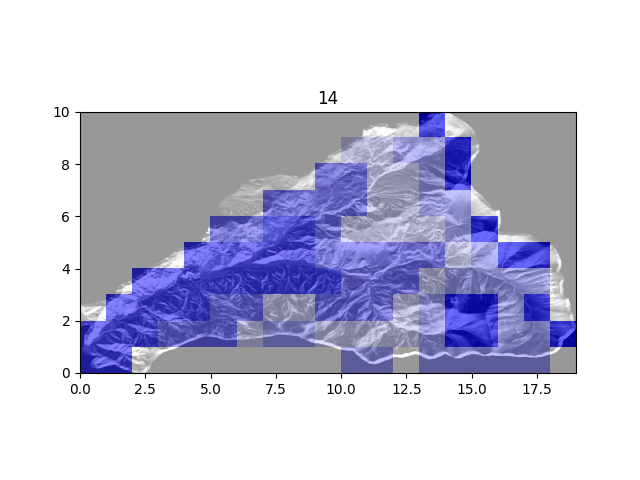
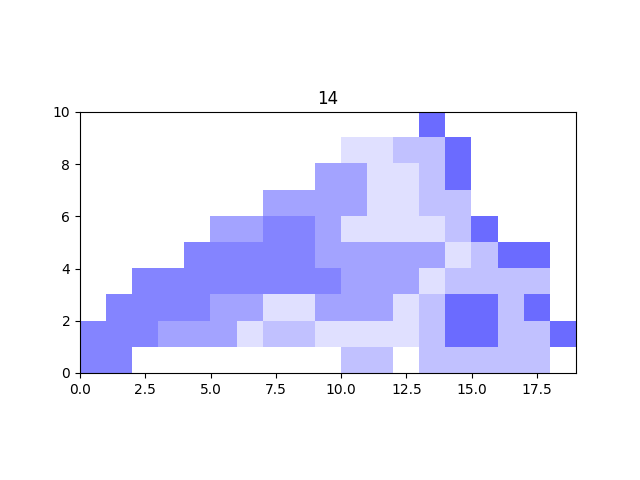
cluster graphs without tif

diff --git a/load_rdata.py b/load_rdata.py
@@ -50,7 +50,7 @@ def graph_watershed_data(grid_data, colors=None, show=False, save=True, title=No
         norm = mpl.colors.BoundaryNorm(colors_bounds, cmap.N+1)
 
         extent = 0, grid_data.shape[1], 0, grid_data.shape[0]
-        bg = plt.imshow(topo, cmap='Greys', extent=extent)
+        #bg = plt.imshow(topo, cmap='Greys', extent=extent)
         img = plt.imshow(grid_data, interpolation='nearest', origin='lower', cmap=cmap, norm=norm, alpha=.6, extent=extent)# cmap)
         if title:
             plt.title(title)
@@ -116,7 +116,7 @@ def clean_swe_matrix():
                     day_list[0] = 0
                 if np.isnan(day_list[-1]):
                     day_list[-1] = 0
-                if lat == 6 and lon == 6:
+                if lat == 6 and lon == 6: #debug
                     pdb.set_trace()
                 idxs = np.arange(day_list.shape[0])
                 day_list[day_list < 0] = np.nan
@@ -207,6 +207,10 @@ def do_clustering():
     for year in range(distances.shape[0]):
         kmeans = KMeans(n_clusters =6, random_state=0).fit(flatten[year])
         clusters = np.reshape(kmeans.labels_, (19, 10))
+        avg_cluster_swe = [0] * len(np.unique(clusters))
+        for lat, lat_row in enumerate(clusters):
+            for lon, cluster_num in enumerate(lat_row):
+        pdb.set_trace()
         graph_watershed_data(clusters, save=True, show=False, title=f"{year}")
 
         data_matrix = np.load("swe_matrix_clean.npy")
